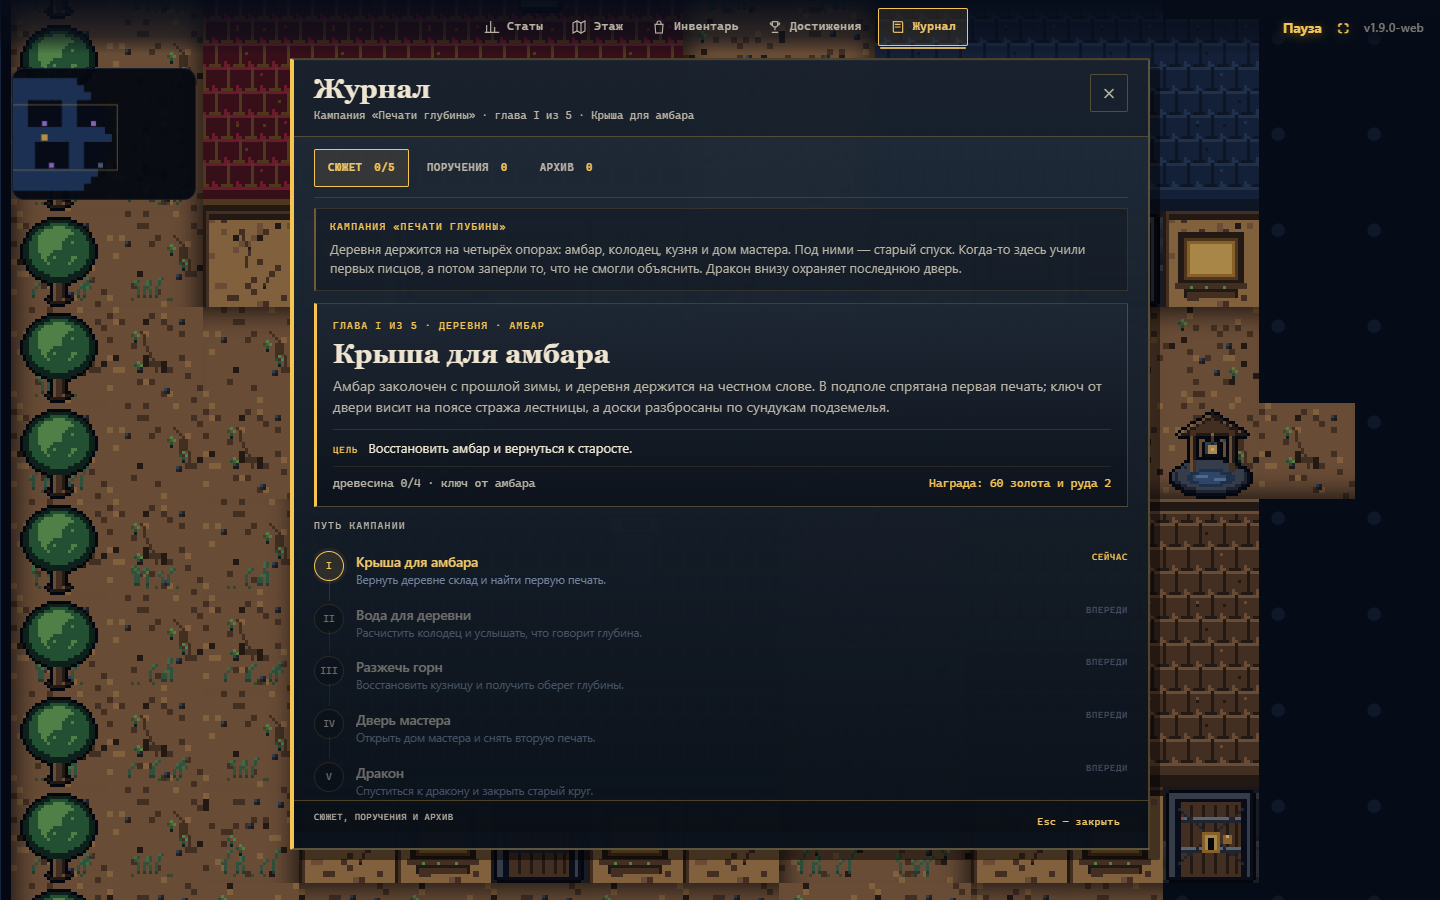
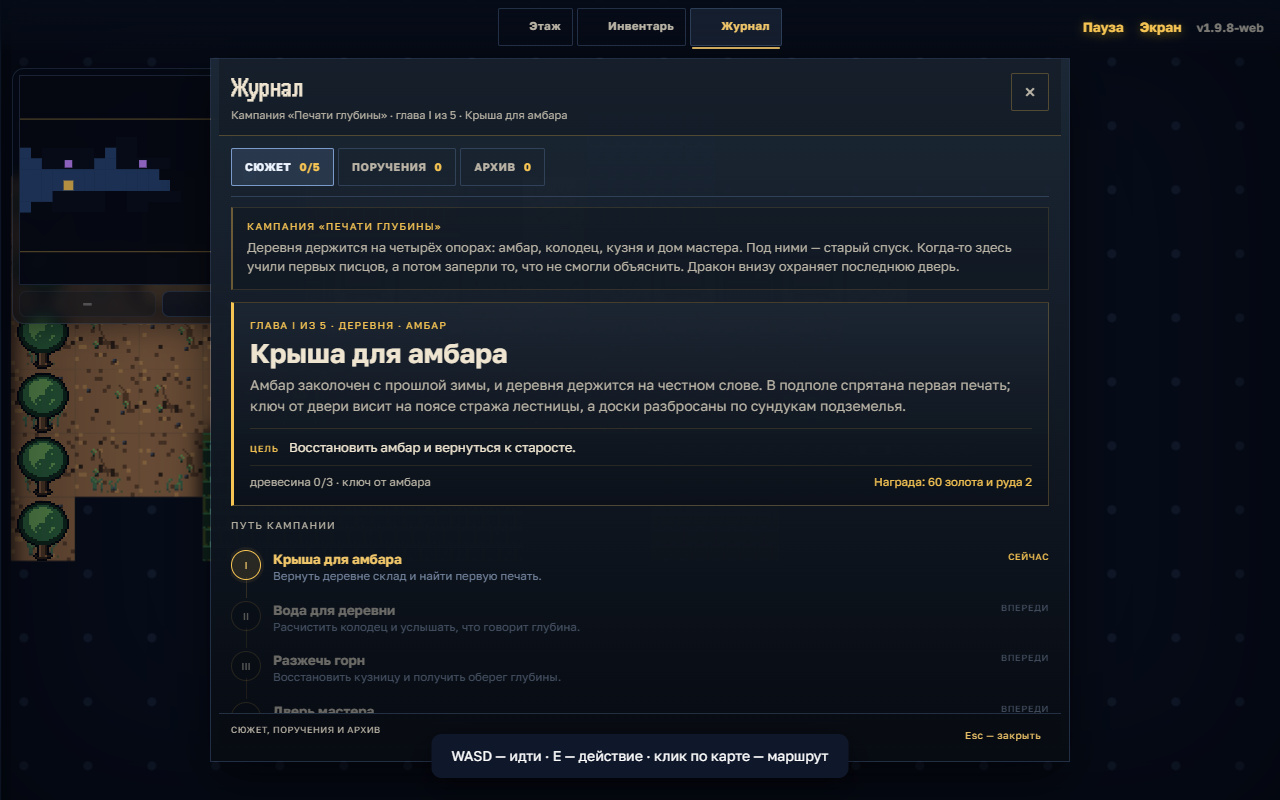
Обновить скриншоты Itch и убрать золотые рамки журнала

diff --git a/static/game.css b/static/game.css
@@ -9685,6 +9685,36 @@ body.battling .minimap-dock {
 }
 
 /* ---------- Инвентарь: фильтры сумки ---------- */
+body.game-page #journal-box,
+body.game-page .journal-tabs,
+body.game-page .journal-tab,
+body.game-page .journal-card {
+  border-color: var(--ui-line) !important;
+  border-image: none !important;
+}
+
+body.game-page #journal-box {
+  border-width: 1px !important;
+}
+
+body.game-page .journal-tab.is-active {
+  border-color: rgba(143, 179, 232, 0.8) !important;
+  background: rgba(125, 162, 217, 0.16) !important;
+  color: #eef5ff !important;
+}
+
+body.game-page .journal-card {
+  border-left-color: rgba(143, 179, 232, 0.75) !important;
+}
+
+body.game-page .journal-card.is-done {
+  border-left-color: var(--moss) !important;
+}
+
+body.game-page .journal-card.is-failed {
+  border-left-color: var(--ember) !important;
+}
+
 body.game-page .inv-head {
   display: flex;
   align-items: center;
